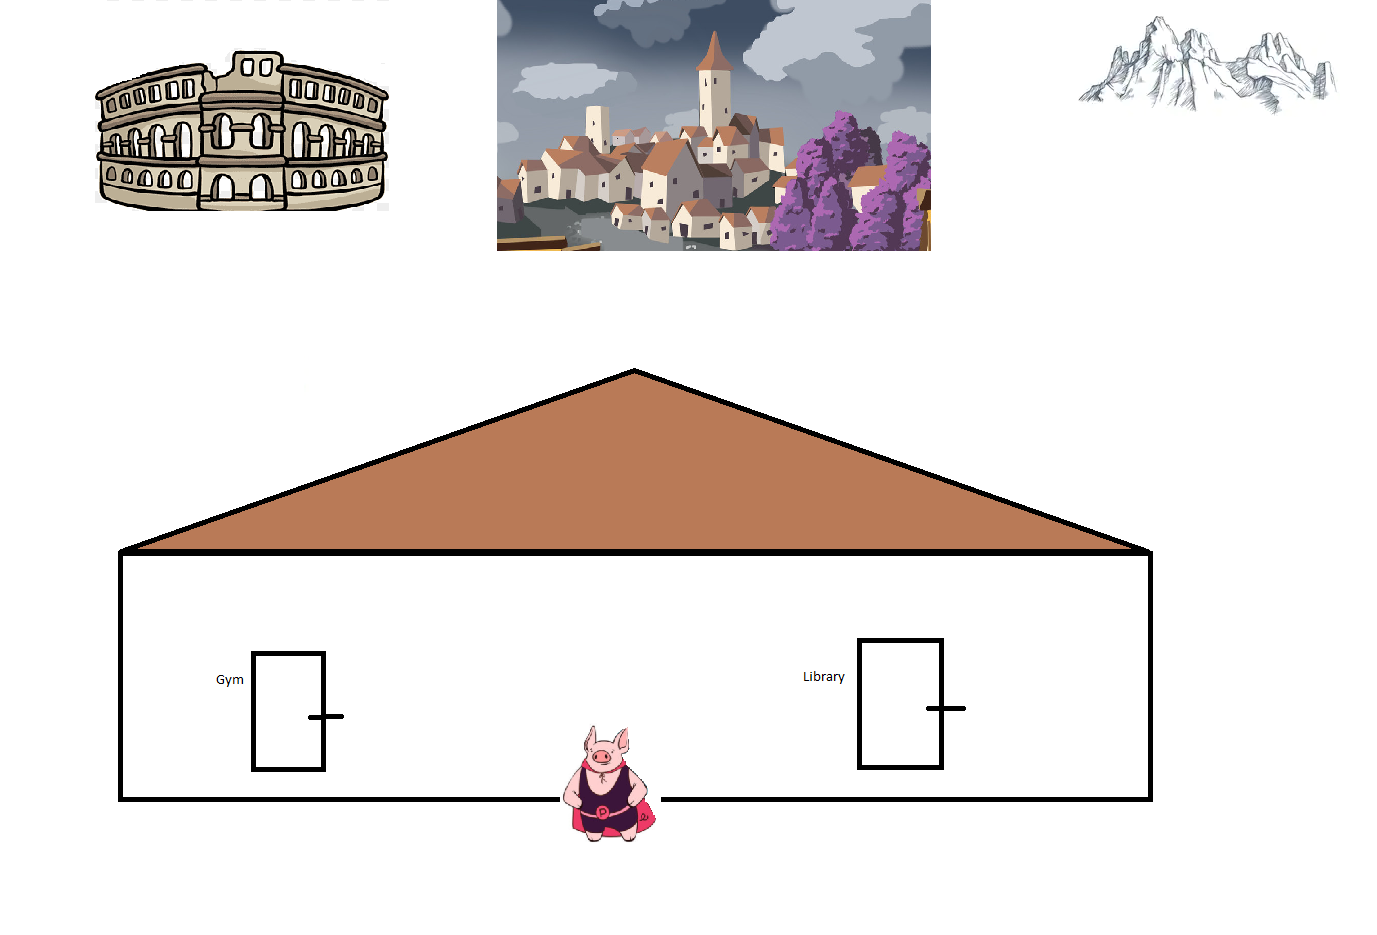
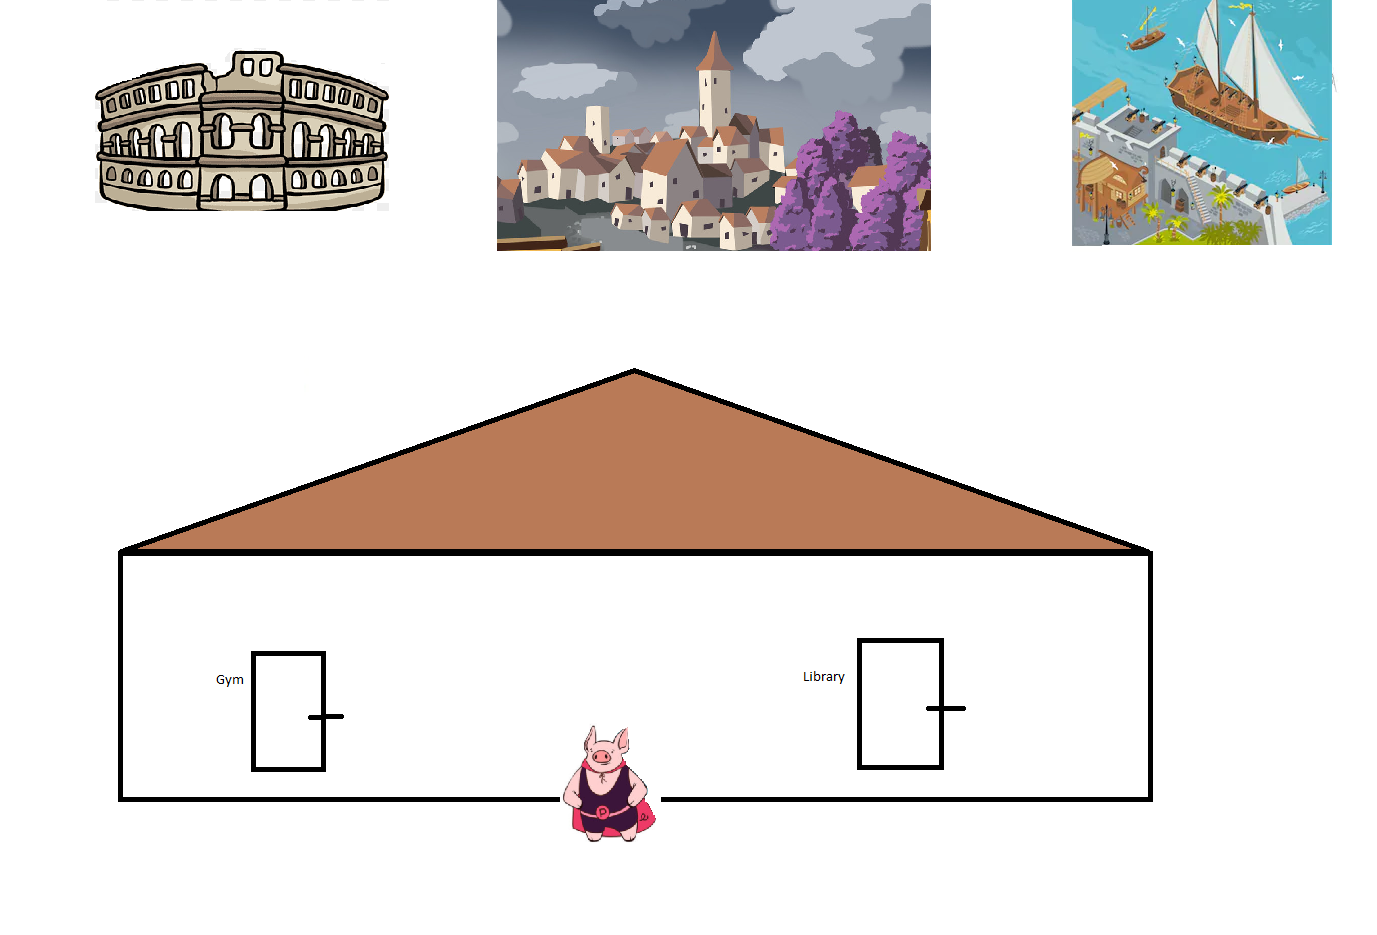
city not closed docks replaced mountains

Changed region(s): [[0.7807, 0.0, 0.968, 0.2791]]

diff --git a/src/app/dojo/dojo.component.html b/src/app/dojo/dojo.component.html
@@ -3,6 +3,6 @@
     <a class="gym_btn"  mat-flat-button color=primary routerLinkActive="mat-accent" routerLink="/gym">Gym</a>
     <a class="library_btn" mat-flat-button color=primary routerLinkActive="mat-accent" routerLink="/library">Library</a>
     <a class="arena_btn"  mat-flat-button color=primary routerLinkActive="mat-accent" routerLink="/arena">Arena</a>
-    <button mattButton class="city_btn"  mat-flat-button color=primary routerLinkActive="mat-accent" [disabled]="cityClosed()" routerLink="/gmDojo">City</button>
-    <a class="mountains_btn"  mat-flat-button color=primary routerLinkActive="mat-accent">Mountains</a>
+    <button mattButton class="city_btn"  mat-flat-button color=primary routerLinkActive="mat-accent" >City</button>
+    <a class="mountains_btn"  mat-flat-button color=primary routerLinkActive="mat-accent">Docks</a>
 </div>

diff --git a/src/app/quiz/quiz.component.ts b/src/app/quiz/quiz.component.ts
@@ -97,14 +97,14 @@ export class QuizComponent implements OnInit {
   }
 
   onLeave() {
-    swal("Do you want to finish your training for now?", {
+    swal("Take a break?", {
       buttons: {
         yes: {
           text: "Yes!",
           value: "yes"
         },
         no: {
-          text: "Actually, no...",
+          text: "No!",
           value: "no",
         },
       },
@@ -149,7 +149,7 @@ export class QuizComponent implements OnInit {
         this.learning = true;
         this.startQuiz(sentences);
       } else {
-        swal("Oops", "There is nothing new to learn. Prove yourself in the arena to unlock new techniques.");
+        swal("You have a challanger", "Prove yourself in the arena before you continue your work.");
       }
     })
   }

diff --git a/src/app/dojo/arena/fight/fight.component.html b/src/app/dojo/arena/fight/fight.component.html
@@ -3,7 +3,7 @@
     <nav >
         <button class="learn_btn">Attack</button>
         <button class="practice_btn">Meditate</button>
-        <button class="overdue_btn"  >Skills</button>
+        <button class="overdue_btn">Skills</button>
         <button class="leave_btn" >Items</button>
     </nav>
     <div class="questions"></div> 

diff --git a/src/app/dojo/dojo.component.ts b/src/app/dojo/dojo.component.ts
@@ -11,14 +11,7 @@ import { ArenaService } from './arena/arena.service';
 })
 export class DojoComponent implements OnInit {
 
-  user: User;
-  constructor(private authService: AuthService) { }
 
   ngOnInit(): void {
-    this.user=this.authService.user;
-  }
-  cityClosed():boolean{
-
-    return this.user.level<2;
   }
 }
